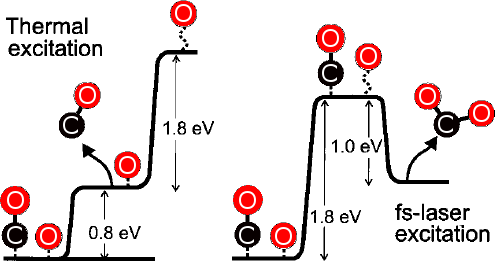
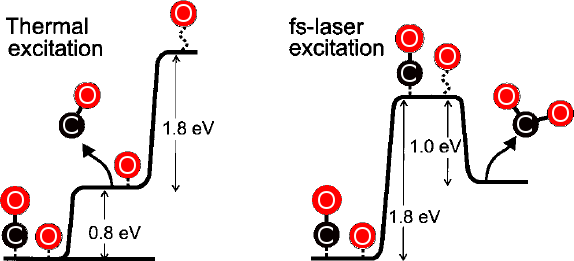
made CO-O-coad-pic broader and moved text 'fs-laser excitation'

diff --git a/Robert_Scholz_Seminar_30Nov2016.tex b/Robert_Scholz_Seminar_30Nov2016.tex
@@ -146,7 +146,7 @@
 %   \column{.7\textwidth}
     \begin{block}{Why investigate fs-laser-driven surface dynamics?}
       \begin{itemize}
-      \item gain fundamental understanding of adsorbate bonding 
+      \item gain fundamental understanding of adsorbate bonding
       \item possible direct application in catalysis: ``femtochemistry'' \newline $\Rightarrow$ new reaction pathways opened up by fs-lasers  
       \end{itemize}
     \end{block}
@@ -154,7 +154,7 @@
 %     \begin{block}{}  
 
       \begin{figure}
-	\includegraphics[width=.6\textwidth]{figures/CO_CO2.png}
+	\includegraphics[width=.7\textwidth]{figures/CO_CO2.png}
       \end{figure}                  
     \begin{center}  		
 	\begin{footnotesize}CO/O-coadsorbate @ Ru(0001)\\ M. Bonn \textit{et al.}, \textsc{Science} (1999) \end{footnotesize}
